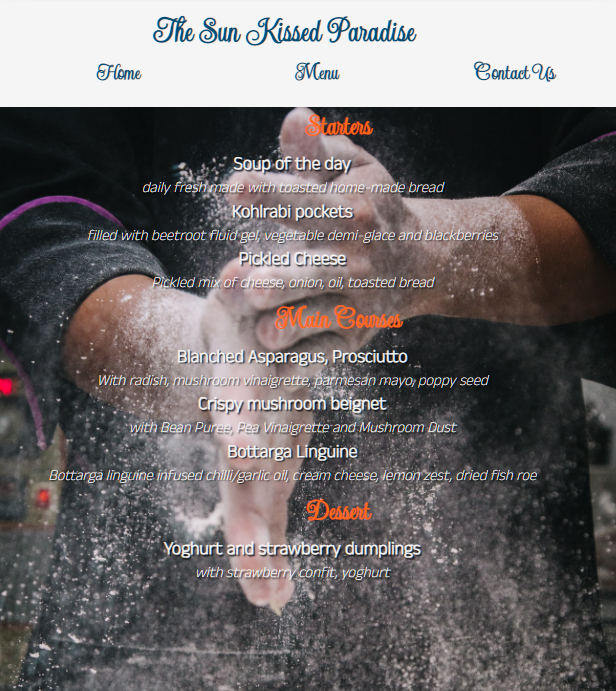
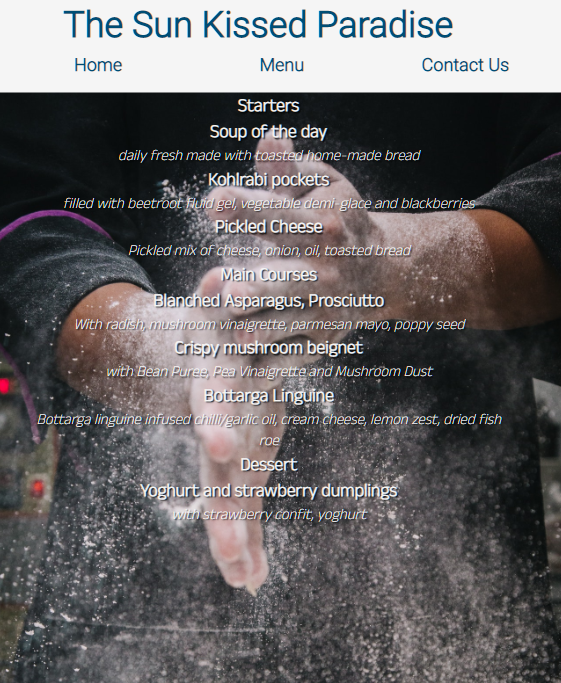
update readme file

diff --git a/menu.html b/menu.html
@@ -32,23 +32,22 @@
     </header>
 
     <section id="menu">
-        
         <ul class="menu-list">
-            <li>Starters</li>
+            <h2>Starters</h2>
             <li>Soup of the day</li>
             <p>daily fresh made with toasted home-made bread</p>
             <li>Kohlrabi pockets</li>
             <p>filled with beetroot fluid gel, vegetable demi-glace and blackberries</p>
             <li>Pickled Cheese</li>
             <p>Pickled mix of cheese, onion, oil, toasted bread</p>
-            <li>Main Courses</li>
+            <h2>Main Courses</h2>
             <li>Blanched Asparagus, Prosciutto</li>
             <p>With radish, mushroom vinaigrette, parmesan mayo, poppy seed</p>
             <li>Crispy mushroom beignet</li>
             <p>with Bean Puree, Pea Vinaigrette and Mushroom Dust</p>
             <li>Bottarga Linguine</li>
             <p>Bottarga linguine infused chilli/garlic oil, cream cheese, lemon zest, dried fish roe</p>
-            <li>Dessert</li>
+            <h2>Dessert</h2>
             <li>Yoghurt and strawberry dumplings</li>
             <p>with strawberry confit, yoghurt</p>
         </ul>
